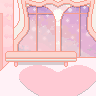
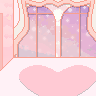
start add inventory placing and management ui

Changed region(s): [[0.0312, 0.5312, 0.8125, 0.7188]]

diff --git a/src/App.js b/src/App.js
@@ -1,7 +1,7 @@
 let App = {
     PI2: Math.PI * 2, INF: 999999999, deltaTime: 0, lastTime: 0, mouse: {x: 0, y: 0}, userId: '_', userName: null, ENV: location.port == 5500 ? 'dev' : 'prod', sessionId: Math.round(Math.random() * 9999999999), playTime: 0,
     gameEventsHistory: {}, deferredInstallPrompt: null, shellBackground: '', isOnItch: false, isOnElectronClient: false, hour: 12,
-    misc: {}, mods: [], records: {}, temp: {},
+    misc: {}, mods: [], records: {}, temp: {}, ownedFurniture: [{id: "sofa_blue", x: '50%', y: '50%', isActive: false}],
     settings: {
         screenSize: 1,
         playSound: true,
@@ -975,29 +975,33 @@ let App = {
 
         this.applySky();
     },
-    handleFurnitureSpawn(){
+    getFurnitureDefFromId(id){
+        return App.definitions.furniture.find(current => current.id === id);
+    },
+    handleFurnitureSpawn(furnitureData = App.ownedFurniture){
         if(App.activeFurnitureObjects?.length){
             App.activeFurnitureObjects.forEach(o => o.removeObject());
         }
 
         App.activeFurnitureObjects = [];
 
-        const furnitureData = [
-            {id: "dbg_01", x: '50%', y: '50%'},
-        ]
-
         furnitureData.forEach(furniture => {
-            const furnitureDef = App.definitions.furniture.find(f => furniture.id === f.id);
+            if(!furniture.isActive) return;
+            const furnitureDef = App.getFurnitureDefFromId(furniture.id);
             if(!furnitureDef) 
                 return console.log('furniture was not found', furniture);
             const furnitureObject = new Object2d({
-                image: App.preloadedResources[furnitureDef.image],
+                // image: App.preloadedResources[furnitureDef.image],
+                img: furnitureDef.image,
                 x: furniture.x || 0,
                 y: furniture.y || 0,
                 z: furniture.z || App.constants.BACKGROUND_Z + 0.1,
+                def: furniture,
             })
             App.activeFurnitureObjects.push(furnitureObject);
         })
+
+        return App.activeFurnitureObjects;
     },
     editFurniture(gameObject, callbackFn){
         if(!gameObject) return false;
@@ -1464,6 +1468,13 @@ let App = {
                         return true;
                     }
                 },
+                {
+                    name: `furniture ${App.getBadge()}`,
+                    onclick: () => {
+                        App.closeAllDisplays();
+                        App.handlers.open_active_furniture_list();
+                    }
+                }
             ])
         },
         open_bathroom_menu: function(){
@@ -2843,6 +2854,46 @@ let App = {
                 }, 
                 buyMode ? `$${App.pet.stats.gold + (salesDay ? ` <span class="sales-notice">DISCOUNT DAY!</span>` : '')}` : null);
             return sliderInstance;
+        },
+        open_active_furniture_list: function(){
+            const list = [
+                ...App.activeFurnitureObjects.map(savedFurniture => {
+                    const furnitureDef = App.getFurnitureDefFromId(savedFurniture.def.id);
+                    return {
+                        name: furnitureDef.name,
+                        onclick: () => {
+                            App.closeAllDisplays();
+                            console.log(savedFurniture)
+                            App.editFurniture(savedFurniture);
+                        }
+                    }
+                })
+            ]
+
+            const occupiedLength = list.length;
+            for(let i = 0; i < 5 - occupiedLength; i++){
+                list.push({
+                    name: '<div class="width-full flex-center"> + </div>',
+                    onclick: () => {
+                        App.displayList(App.ownedFurniture.map(furniture => {
+                            const def = App.getFurnitureDefFromId(furniture.id);
+                            return {
+                                name: def.name,
+                                onclick: () => {
+                                    furniture.isActive = true;
+                                    App.closeAllDisplays();
+                                    const furnitureObjects = App.handleFurnitureSpawn();
+                                    const currentObject = furnitureObjects.find(f => f.def.id === def.id);
+                                    App.editFurniture(currentObject);
+                                    console.log(currentObject);
+                                }
+                            }
+                        }))
+                    }
+                })
+            }
+
+            return App.displayList([...list]);
         },
         open_activity_list: function(){
             return App.displayList([

diff --git a/src/Definitions.js b/src/Definitions.js
@@ -630,11 +630,69 @@ App.definitions = {
 
     /* ROOM PLACEABLE FURNITURE */
     furniture: [
+        // right
         {
-            name: 'Debug 1',
-            id: "dbg_01",
-            image: 'resources/img/furniture/dbg_01.png',
-        }
+            name: 'CLR Bookcase',
+            image: 'resources/img/furniture/bookcase_colorful.png',
+            id: "bookcase_colorful",
+        },
+        {
+            name: 'Wooden Bookcase',
+            image: 'resources/img/furniture/bookcase_wooden.png',
+            id: "bookcase_wooden",
+        },
+        {
+            name: 'Peachy Pot',
+            image: 'resources/img/furniture/pot_peachy.png',
+            id: "pot_peachy",
+        },
+        {
+            name: 'Blue Stand',
+            image: 'resources/img/furniture/stand_blue.png',
+            id: "stand_blue",
+        },
+        {
+            name: 'Lite Stand',
+            image: 'resources/img/furniture/stand_rainbow.png',
+            id: "stand_rainbow",
+        },
+
+        // left
+        {
+            name: 'Blue Sofa',
+            image: 'resources/img/furniture/sofa_blue.png',
+            id: "sofa_blue",
+        },
+        {
+            name: 'Clood Sofa',
+            image: 'resources/img/furniture/sofa_clood.png',
+            id: "sofa_clood",
+        },
+        {
+            name: 'Futura Sofa',
+            image: 'resources/img/furniture/sofa_futura.png',
+            id: "sofa_futura",
+        },
+        {
+            name: 'Peachy Sofa',
+            image: 'resources/img/furniture/sofa_peachy.png',
+            id: "sofa_peachy",
+        },
+        {
+            name: 'Pink Sofa',
+            image: 'resources/img/furniture/sofa_pink.png',
+            id: "sofa_pink",
+        },
+        {
+            name: 'Lite Sofa',
+            image: 'resources/img/furniture/sofa_rainbow.png',
+            id: "sofa_rainbow",
+        },
+        {
+            name: 'Woodleather Sofa',
+            image: 'resources/img/furniture/sofa_woodleather.png',
+            id: "sofa_woodleather",
+        },
     ],
 
     /* SHELL BACKGROUNDS */

diff --git a/resources/data/SpriteDefinitions.js b/resources/data/SpriteDefinitions.js
@@ -56,9 +56,6 @@ const SPRITES = [
     "resources/img/background/sky/snow_01.png",
 
     // furniture
-    "resources/img/furniture/dbg_01.png",
-    "resources/img/furniture/dbg_02.png",
-    "resources/img/furniture/dbg_03.png",
 
     // items
     "resources/img/item/foods.png",
